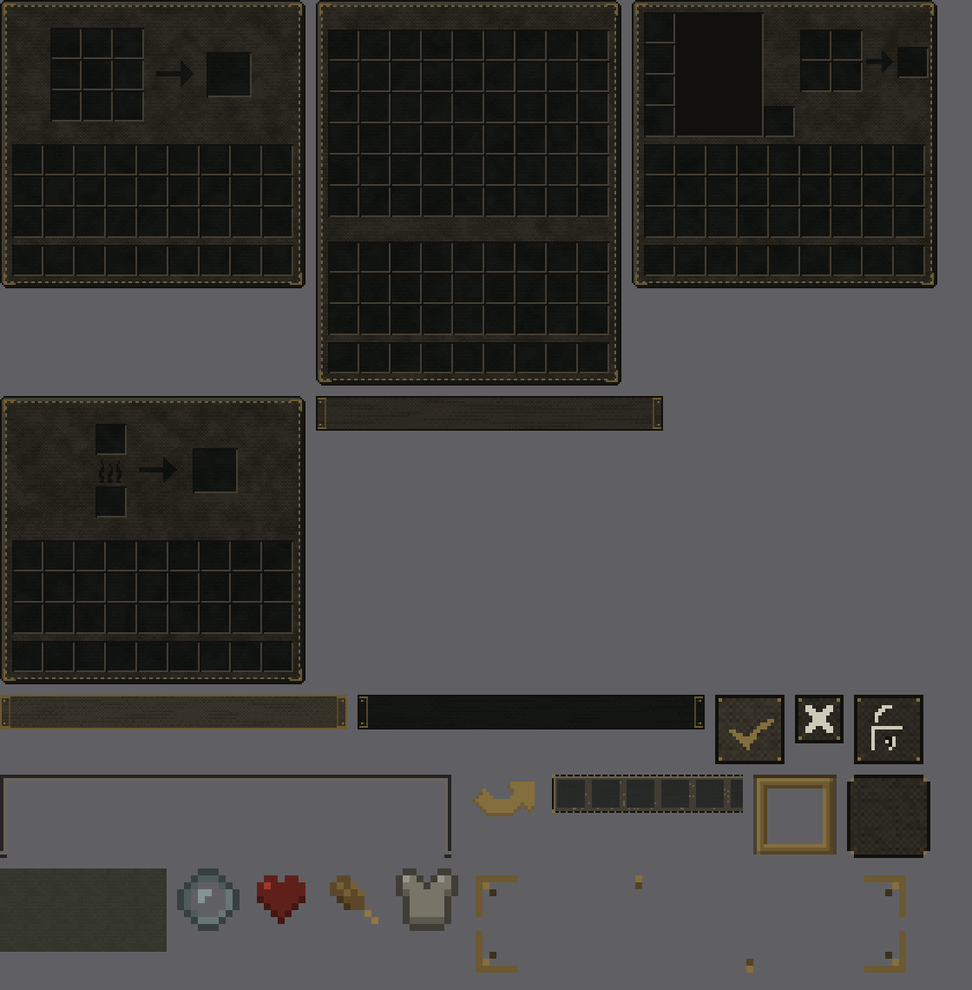
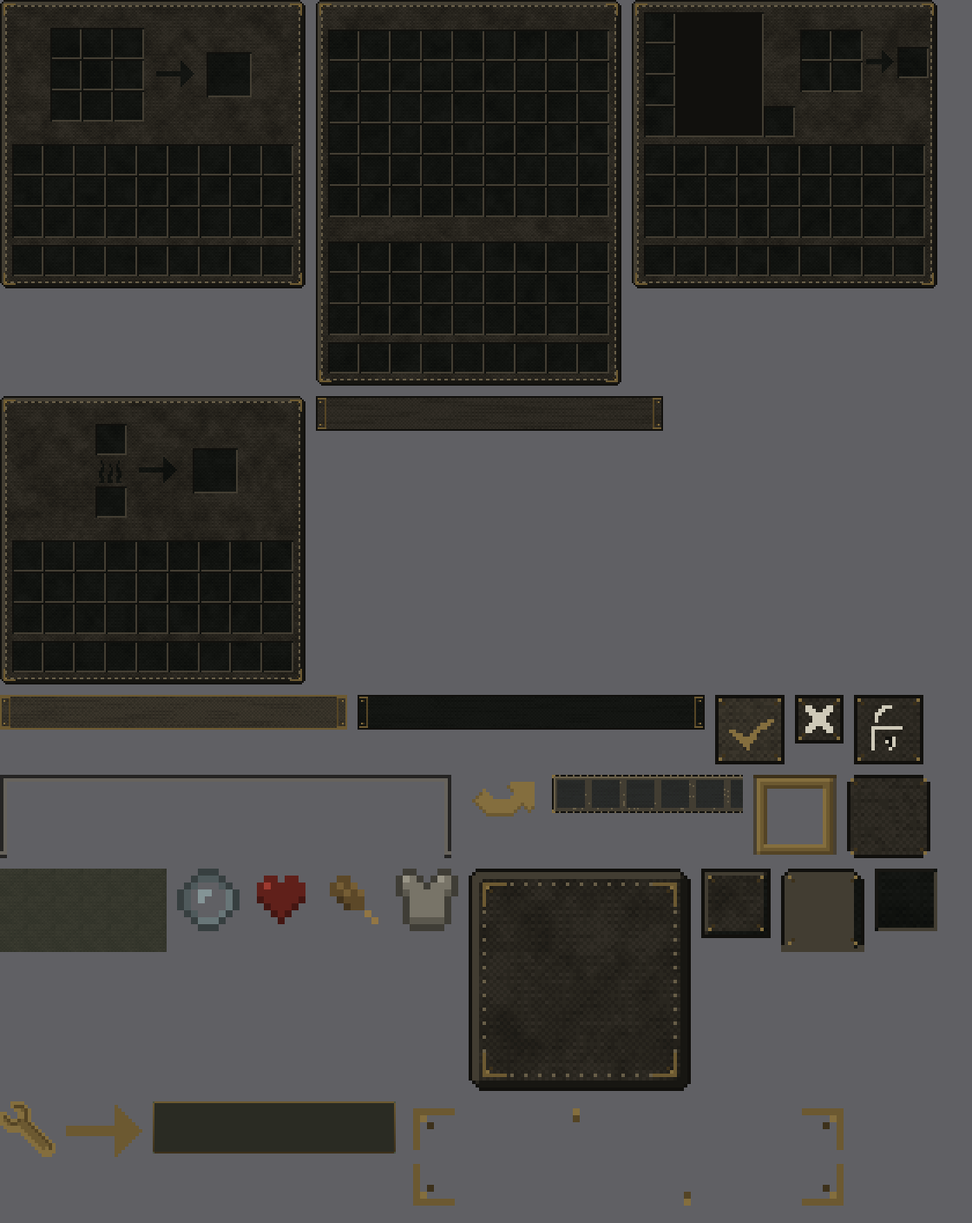
JEI и Jade в коже лазарета: вторая волна ресурспака
JEI темится целиком текстурами — сорок две штуки. Повезло дважды: он
собран из тех же серых, что ванильные окна, так что пороги перекраски
пошли те же; а его крупные подложки нарезаны девятислойно с полем
в шестнадцать пикселей, и оковка легла на них почти без правок. Шов
с шагом четыре укладывается в повторяющуюся полосу тридцати двух
пикселей нацело — он не разъедется, как бы широко панель ни встала.

Кнопкам JEI понадобились свои пороги: их тело темнее фаски всего
вдвое и общими порогами уезжало в дно слота. Значки разведены на два
списка — стрелки нарисованы светлым по прозрачному, значки из icons/
тёмным, и второму латунь раздаётся навыворот, иначе глиф пропадает
на кожаной кнопке.

Jade темится одним JSON: рамку и фон он рисует сам, цветом из темы.
Тема лежит в паке, а включается строкой overlay.activeTheme в конфиге
профиля — скрипт правит её сам, копия до правки рядом. Схема держится
в границах встроенных тем мода: расширенные поля проверить было негде,
а тема с ошибкой в схеме просто не загрузится.

diff --git a/tools/ui-gfx/графика.py b/tools/ui-gfx/графика.py
@@ -34,6 +34,8 @@ from PIL import Image
 ВАНИЛЬ = pathlib.Path.home() / "AppData/Roaming/LMPC/versions/1.21.1/1.21.1.jar"
 ПАК = КОРЕНЬ / "resourcepacks/lazaret_ui"
 ПРОФИЛЬ = pathlib.Path.home() / "AppData/Roaming/ModrinthApp/profiles/LMPCCHUMA/resourcepacks"
+МОДЫ = ПРОФИЛЬ.parent / "mods"
+ДЖЕЙД_КОНФИГ = ПРОФИЛЬ.parent / "config/jade/jade.json"
 
 # ── палитра лазарета: импортом, а не копией ─────────────────────────
 _спек = importlib.util.spec_from_file_location(
@@ -232,7 +234,7 @@ def скобы_кнопки(им):
     return им
 
 
-def заклепать(им):
+def заклепать(им, отступ=1):
     """Латунная заклёпка в каждом углу — узор мелких кнопок.
 
     Целую скобу в двадцать пикселей не втиснуть, а точка с тенью читается
@@ -243,8 +245,9 @@ def заклепать(им):
     if ш < 12 or в < 12:
         return им
     px = им.load()
-    for x, y, дx, дy in ((1, 1, 1, 1), (ш - 2, 1, -1, 1),
-                         (1, в - 2, 1, -1), (ш - 2, в - 2, -1, -1)):
+    о = отступ
+    for x, y, дx, дy in ((о, о, 1, 1), (ш - 1 - о, о, -1, 1),
+                         (о, в - 1 - о, 1, -1), (ш - 1 - о, в - 1 - о, -1, -1)):
         if px[x, y][3] < 128:
             continue
         px[x, y] = ЛАТУНЬ[0] + (px[x, y][3],)
@@ -416,6 +419,196 @@ def рамка_подсказок():
     return им
 
 
+# ── JEI ─────────────────────────────────────────────────────────────
+#
+# Повезло: JEI собран из тех же серых, что и ванильные окна — поле 198,
+# фаска 255, дно слота 138, обводка 0. Значит работают те же пороги,
+# а не выдуманные специально под мод.
+#
+# Крупные подложки нарезаны девятислойно с полем в шестнадцать пикселей.
+# Это больше, чем нужно скобе, поэтому оковка переносится на них почти
+# без изменений: углы лежат в несжимаемых квадратах, а стежок с шагом
+# в четыре пикселя ровно укладывается в повторяющуюся полосу в тридцать
+# два пикселя — шов не разъезжается, как бы широко панель ни встала.
+
+JEI_ФОН = ["gui_background_v2", "single_recipe_background_v2",
+           "recipe_preview_background_v2", "bookmark_list_background_v2",
+           "ingredient_list_background_v2",
+           "interactive_ingredient_tooltip_background"]
+JEI_СЛОТ = ["slot", "output_slot", "ingredient_list_slot_background_v2",
+            "bookmark_list_slot_background_v2",
+            "recipe_catalyst_slot_background_v2"]
+JEI_ОПРАВА = ["button_enabled_v2", "button_disabled_v2", "button_highlight_v2",
+              "button_pressed_v2", "button_pressed_highlight_v2",
+              "search_background_v2", "catalyst_tab_v2", "recipe_options_tab_v2",
+              "tab_selected", "tab_unselected", "scrollbar_background_v2",
+              "scrollbar_marker_v2"]
+# Стрелки и плюс нарисованы светлым по прозрачному, значки из icons/ —
+# наоборот, тёмным. Одной гаммой их не взять: тёмный глиф на кожаной
+# кнопке пропал бы вовсе, поэтому ему латунь раздаётся навыворот.
+JEI_СВЕТЛЫЕ = ["recipe_arrow", "recipe_arrow_filled", "recipe_plus_sign",
+               "icons/shapeless_icon_v2"]
+JEI_ПРИБОРЫ = ("flame", "brewing_stand", "exclusion_area_shadow", "debug")
+ЛАТУНЬ_НАВЫВОРОТ = ЛАТУНЬ[::-1]
+
+
+def оковать_плитку(им, отступ=4, скоба=7):
+    """Оковка для девятислойной подложки: шов с шагом 4 и скобы в углах.
+
+    От `оковать` отличается тем, что рисует по краю самой картинки, а не
+    по непрозрачной области, и шагом, который переживает размножение
+    средней полосы. Размер проверять не надо: сюда попадают только те
+    подложки, у которых поле нарезки заведомо шире скобы.
+    """
+    ш, в = им.size
+    px = им.load()
+
+    def кисть(x, y, цвет):
+        if px[x, y][3]:
+            px[x, y] = цвет + (px[x, y][3],)
+
+    for x in range(отступ, ш - отступ, 4):
+        кисть(x, отступ, _лз.ШОВ)
+        кисть(x, в - 1 - отступ, _лз.ШОВ)
+    for y in range(отступ, в - отступ, 4):
+        кисть(отступ, y, _лз.ШОВ)
+        кисть(ш - 1 - отступ, y, _лз.ШОВ)
+    for ух, уy, дx, дy in ((отступ, отступ, 1, 1),
+                           (ш - 1 - отступ, отступ, -1, 1),
+                           (отступ, в - 1 - отступ, 1, -1),
+                           (ш - 1 - отступ, в - 1 - отступ, -1, -1)):
+        for i in range(скоба):
+            кисть(ух + дx * i, уy, ЛАТУНЬ[1])
+            кисть(ух, уy + дy * i, ЛАТУНЬ[1])
+        кисть(ух + дx, уy + дy, ЛАТУНЬ[0])
+        кисть(ух + дx * 2, уy + дy * 2, ЛАТУНЬ[3])
+    return им
+
+
+def одеть_jei(показать):
+    """Все текстуры JEI из его же джарника — в кожу и латунь."""
+    джар = sorted(МОДЫ.glob("jei-*.jar"))
+    if not джар:
+        print("  JEI не найден в профиле — пропускаю")
+        return
+    корень = "assets/jei/textures/jei/atlas/gui/"
+    with zipfile.ZipFile(джар[-1]) as z:
+        имена = [n[len(корень):-4] for n in z.namelist()
+                 if n.startswith(корень) and n.endswith(".png")]
+        одето = 0
+        for имя in имена:
+            if any(п in имя for п in JEI_ПРИБОРЫ):
+                continue       # огонь, варка и тень зоны — показания, не оправа
+            им = Image.open(io.BytesIO(z.read(корень + имя + ".png")))
+            сид = zlib.crc32(имя.encode())
+            if имя in JEI_ФОН:
+                им = перекрасить(им, сид)
+                оковать_плитку(им)
+            elif имя in JEI_СЛОТ:
+                им = перекрасить(им, сид, границы=(200, 160, 60, 20))
+            elif имя in JEI_ОПРАВА:
+                # Тело кнопки JEI темнее её фаски всего вдвое, и общими
+                # порогами оно уезжает в дно слота. Свои пороги держат
+                # фаску светлой, а тело — кожаным.
+                им = перекрасить(им, сид, границы=(160, 90, 40, 10))
+                заклепать(им, отступ=2)
+            elif имя in JEI_СВЕТЛЫЕ:
+                им = перекрасить_значок(им, ЛАТУНЬ)
+            elif имя.startswith("icons/"):
+                им = перекрасить_значок(им, ЛАТУНЬ_НАВЫВОРОТ)
+            else:
+                им = перекрасить(им, сид)
+            цель = ПАК / "assets/jei/textures/jei/atlas/gui" / (имя + ".png")
+            цель.parent.mkdir(parents=True, exist_ok=True)
+            им.save(цель)
+            одето += 1
+        print("  %d текстур" % одето)
+    for имя in ("gui_background_v2", "button_enabled_v2", "tab_selected",
+                "slot", "icons/config_button", "recipe_arrow"):
+        им = Image.open(ПАК / "assets/jei/textures/jei/atlas/gui" / (имя + ".png"))
+        им = им.convert("RGBA")
+        показать.append(им.resize((им.width * 2, им.height * 2), Image.NEAREST))
+
+
+# ── Jade ────────────────────────────────────────────────────────────
+#
+# У Jade тема — не текстура, а JSON: рамку и фон мод рисует сам, цветом
+# из файла. Пак кладёт тему в свой ассет, её имя складывается из
+# пространства имён и имени файла, и это имя надо вписать в
+# config/jade/jade.json, в overlay.activeTheme. Сама тема не включится.
+
+ТЕМА_JADE = "lazaret:lazaret"
+
+
+def _шестнадцать(цвет):
+    return "#%02X%02X%02X" % цвет
+
+
+def макет_jade(тема):
+    """Как Jade нарисует подсказку по этой теме — от руки, для листа.
+
+    Настоящую выдать неоткуда: мод рисует её сам и только в игре. Здесь
+    повторено ровно то, что он делает по теме, — заливка фоном с
+    прозрачностью из его конфига и рамка в один пиксель по углам
+    градиента. Судить по этому квадрату можно только о цвете.
+    """
+    ш, в = 140, 30
+    фон = тема["tooltipStyle"]["backgroundColor"]
+    рамка = [tuple(int(ц[i:i + 2], 16) for i in (1, 3, 5))
+             for ц in тема["tooltipStyle"]["borderColor"]]
+    мир = Image.new("RGBA", (ш, в), (74, 82, 64, 255))
+    слой = Image.new("RGBA", (ш, в),
+                     tuple(int(фон[i:i + 2], 16) for i in (1, 3, 5)) + (179,))
+    px = слой.load()
+    for x in range(ш):
+        д = x / (ш - 1)
+        for y, верх, низ in ((0, рамка[0], рамка[1]), (в - 1, рамка[2], рамка[3])):
+            px[x, y] = tuple(int(верх[i] + (низ[i] - верх[i]) * д) for i in range(3)) + (255,)
+    for y in range(в):
+        д = y / (в - 1)
+        for x, верх, низ in ((0, рамка[0], рамка[2]), (ш - 1, рамка[1], рамка[3])):
+            px[x, y] = tuple(int(верх[i] + (низ[i] - верх[i]) * д) for i in range(3)) + (255,)
+    for x, y in ((0, 0), (ш - 1, 0), (0, в - 1), (ш - 1, в - 1)):
+        px[x, y] = (0, 0, 0, 0)          # скруглённый угол
+    мир.alpha_composite(слой)
+    return мир
+
+
+def одеть_jade(показать=None):
+    тема = {
+        "version": 100,
+        "tooltipStyle": {
+            "backgroundColor": _шестнадцать(КОЖА[3]),
+            # Четыре угла градиента: сверху латунь светлее, снизу темнее —
+            # так же, как у встроенных тем мода.
+            "borderColor": [_шестнадцать(ЛАТУНЬ[1]), _шестнадцать(ЛАТУНЬ[1]),
+                            _шестнадцать(ЛАТУНЬ[3]), _шестнадцать(ЛАТУНЬ[3])],
+        },
+        "changeRoundCorner": True,
+    }
+    if показать is not None:
+        показать.append(макет_jade(тема))
+    прост, имя = ТЕМА_JADE.split(":")
+    цель = ПАК / ("assets/%s/jade_themes/%s.json" % (прост, имя))
+    цель.parent.mkdir(parents=True, exist_ok=True)
+    цель.write_text(json.dumps(тема, ensure_ascii=False, indent=2), encoding="utf-8")
+    print("  тема " + ТЕМА_JADE)
+
+    if not ДЖЕЙД_КОНФИГ.exists():
+        print("  конфиг Jade не найден — включать тему некому")
+        return
+    конф = json.loads(ДЖЕЙД_КОНФИГ.read_text(encoding="utf-8"))
+    было = конф.get("overlay", {}).get("activeTheme")
+    if было != ТЕМА_JADE:
+        запас = ДЖЕЙД_КОНФИГ.with_suffix(".json.bak-ui")
+        if not запас.exists():
+            запас.write_text(ДЖЕЙД_КОНФИГ.read_text(encoding="utf-8"),
+                             encoding="utf-8")
+        конф.setdefault("overlay", {})["activeTheme"] = ТЕМА_JADE
+        ДЖЕЙД_КОНФИГ.write_text(json.dumps(конф, indent=2), encoding="utf-8")
+        print("  включена в конфиге профиля, была " + str(было))
+
+
 # ── контрольный лист ────────────────────────────────────────────────
 
 def превью(куски):
@@ -552,6 +745,11 @@ def main():
                          "hud/armor_full.png", "hud/air.png"):
                 показать.append(им.resize((им.width * 4, им.height * 4), Image.NEAREST))
         print(f"  {len([1 for п in имена])} шт. просмотрено, перекрашены сердца, еда, броня, воздух")
+
+    print("JEI:")
+    одеть_jei(показать)
+    print("Jade:")
+    одеть_jade(показать)
 
     рамка = рамка_подсказок()
     цель = ПАК / "assets/legendarytooltips/textures/gui/tooltip_borders.png"

diff --git a/tools/ui-gfx/ЧИТАЙ_МЕНЯ.md b/tools/ui-gfx/ЧИТАЙ_МЕНЯ.md
@@ -116,6 +116,52 @@ level1_colors = ["#6C5931", "#3D3119", "#F02A2721", "#F016150F"]
 Конфиг живёт в профиле игрока и раздаётся через `build_pack.py`;
 в этом дереве его нет.
 
+## JEI: та же палитра, что у ванили
+
+Повезло дважды. Во-первых, JEI собран из тех же серых, что ванильные
+окна — поле 198, фаска 255, дно слота 138, обводка 0, — поэтому работают
+те же пороги, а не выдуманные специально под мод. Во-вторых, его крупные
+подложки нарезаны девятислойно с полем в шестнадцать пикселей: это шире
+скобы, и оковка переносится на них почти без изменений.
+
+Есть тонкость, о которую легко споткнуться. Середина девятислойной
+картинки размножается, и шов по краю должен пережить размножение. У JEI
+повторяющаяся полоса ровно тридцать два пикселя, шаг стежка — четыре,
+тридцать два делится на четыре нацело, и шов не разъезжается, как бы
+широко панель ни встала. Меняешь шаг — проверь делимость.
+
+Кнопки JEI темнее своей фаски всего вдвое, и общими порогами тело
+уезжает в дно слота; у них свои `границы=(160, 90, 40, 10)`.
+
+Значки разведены по двум спискам, и это не педантизм. Стрелки и плюс
+нарисованы светлым по прозрачному, значки из `icons/` — тёмным. Одной
+гаммой их не взять: тёмный глиф на кожаной кнопке пропал бы вовсе,
+поэтому ему латунь раздаётся навыворот.
+
+Огонь, пузыри варки и тень запретной зоны не трогаем — это показания
+приборов, как и в ванили.
+
+## Jade: тема — не текстура, а JSON
+
+Рамку и фон подсказки Jade рисует сам, цветом из темы. Пак кладёт её
+в `assets/lazaret/jade_themes/lazaret.json`; имя темы складывается из
+пространства имён и имени файла, отсюда `lazaret:lazaret`.
+
+**Сама тема не включится.** Её имя надо вписать в профиль,
+в `config/jade/jade.json`, ключ `overlay.activeTheme` — скрипт делает это
+сам и оставляет рядом `jade.json.bak-ui`. Раздаётся конфиг через
+`build_pack.py`, как и конфиг Legendary Tooltips.
+
+Схема темы взята с встроенных тем мода (`dark`, `create`) и намеренно
+держится в их границах: `version`, `tooltipStyle` с фоном и четырьмя
+углами градиента рамки, `changeRoundCorner`. У `Theme` есть и другие
+поля — `text`, `iconSlotSprite`, `viewGroupStyle`, — но их схему проверить
+было негде, а тема с ошибкой просто не загрузится.
+
+Контрольный лист рисует подсказку Jade от руки: настоящую выдать
+неоткуда, мод рисует её только в игре. По этому квадрату можно судить
+о цвете и ни о чём больше.
+
 ## Пак включается сам
 
 `resourcePacks:` в `config/lmpc-default-options.txt` содержит

diff --git a/docs/superpowers/notes/2026-09-18-resurspak-lazaret-ui.md b/docs/superpowers/notes/2026-09-18-resurspak-lazaret-ui.md
@@ -60,6 +60,34 @@
 
 Пак вырос с 91 файла до 135.
 
+## Вторая волна: JEI и Jade
+
+Сделана тем же днём, по слову владельца «делай JEI и Jade». Обе
+подсистемы оказались посильнее, чем ожидалось в первой волне.
+
+**JEI темится целиком текстурами** — сорок две штуки из его джарника,
+и собран он из тех же серых, что ванильные окна, так что пороги
+перекраски пошли те же. Крупные подложки нарезаны девятислойно с полем
+в шестнадцать пикселей, и оковка легла на них почти без правок: углы
+в несжимаемых квадратах, шов с шагом четыре укладывается в
+повторяющуюся полосу тридцати двух пикселей нацело.
+
+**Jade темится одним JSON.** Тема лежит в паке
+(`assets/lazaret/jade_themes/lazaret.json`, имя `lazaret:lazaret`),
+а включается строкой `overlay.activeTheme` в `config/jade/jade.json`
+профиля — скрипт правит её сам, копия до правки рядом (`.bak-ui`,
+было `jade:dark`). Схема темы держится в границах встроенных тем мода:
+проверить расширенные поля (`text`, `iconSlotSprite`) было негде,
+а тема с ошибкой в схеме просто не загрузится.
+
+Пак вырос со 135 файлов до 178.
+
+**Чего в этой волне нет.** Подсказку Jade контрольный лист рисует
+от руки — настоящую мод выдаёт только в игре, и по квадрату на листе
+можно судить о цвете и ни о чём больше. Схема темы и раскладка
+`tooltip_borders.png` остаются двумя местами, где мы опираемся
+на разбор, а не на документацию.
+
 ## Что куда поехало
 
 ```
